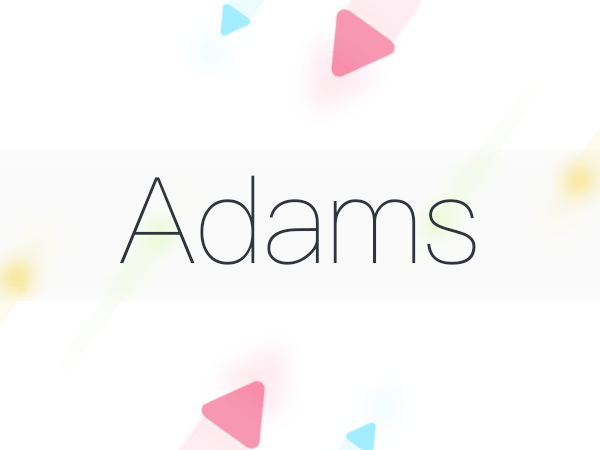
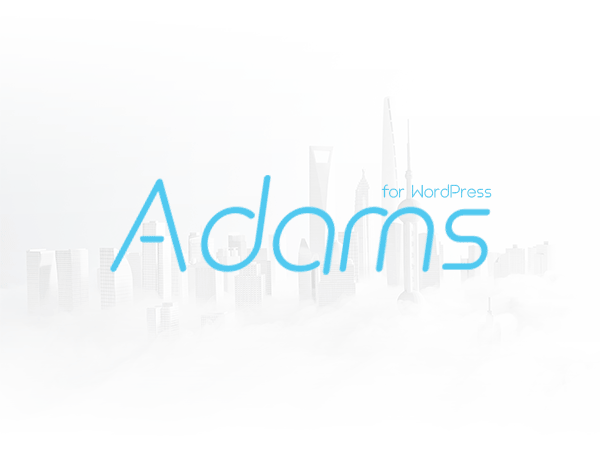
Update readme&screenshot image

diff --git a/README.md b/README.md
@@ -1,4 +1,24 @@
 # Adams
-WordPress theme
 
-![](https://ws3.sinaimg.cn/large/006tKfTcgy1fgrd9wym5xj31950qwacw.jpg)
+一套适用于 WordPress 的简洁、轻量的 Theme
+![](https://wx1.sinaimg.cn/large/76679337ly1gcj1k23yf7j219r0u00wf.jpg)
+
+# 发行
+
+Github 默认为开发版，如果需要稳定发行版，请前往：https://github.com/Tokinx/Adams/releases
+
+下载后进入 WordPress 后台进行安装并启用即可
+
+主题设置项在：后台 -> 主题 -> 自定义
+
+# 如何贡献
+
+合理的改动的提交都会被接收，合理的 issues 都会被采纳并修改。
+
+# 维护
+
+[Tokin](https://biji.io)
+
+# 讨论
+
+https://github.com/Tokinx/Adams/issues
